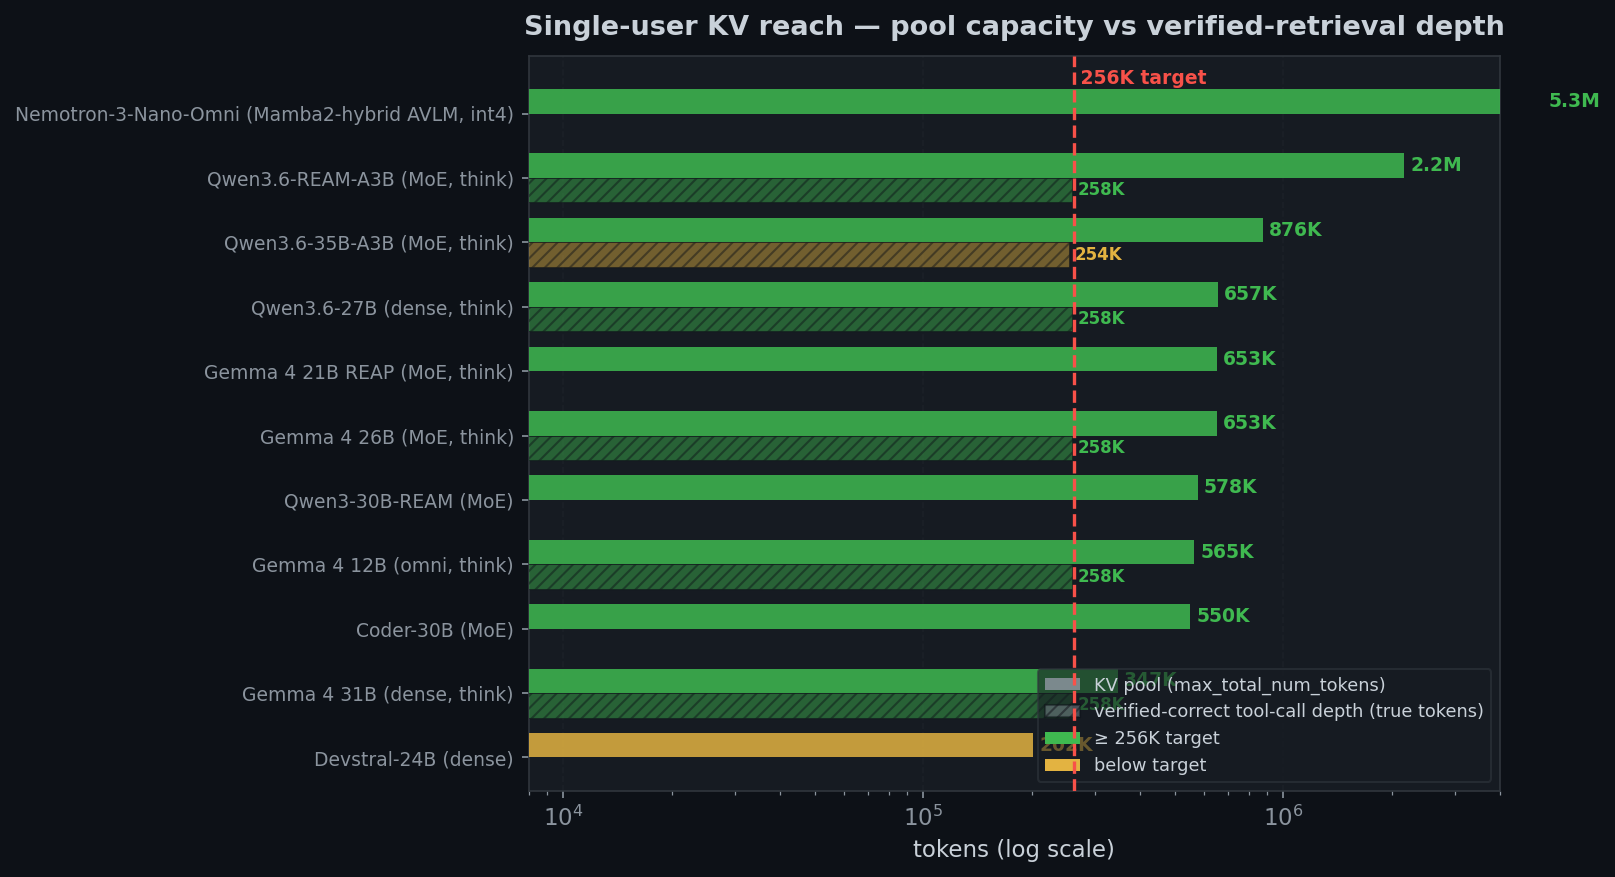
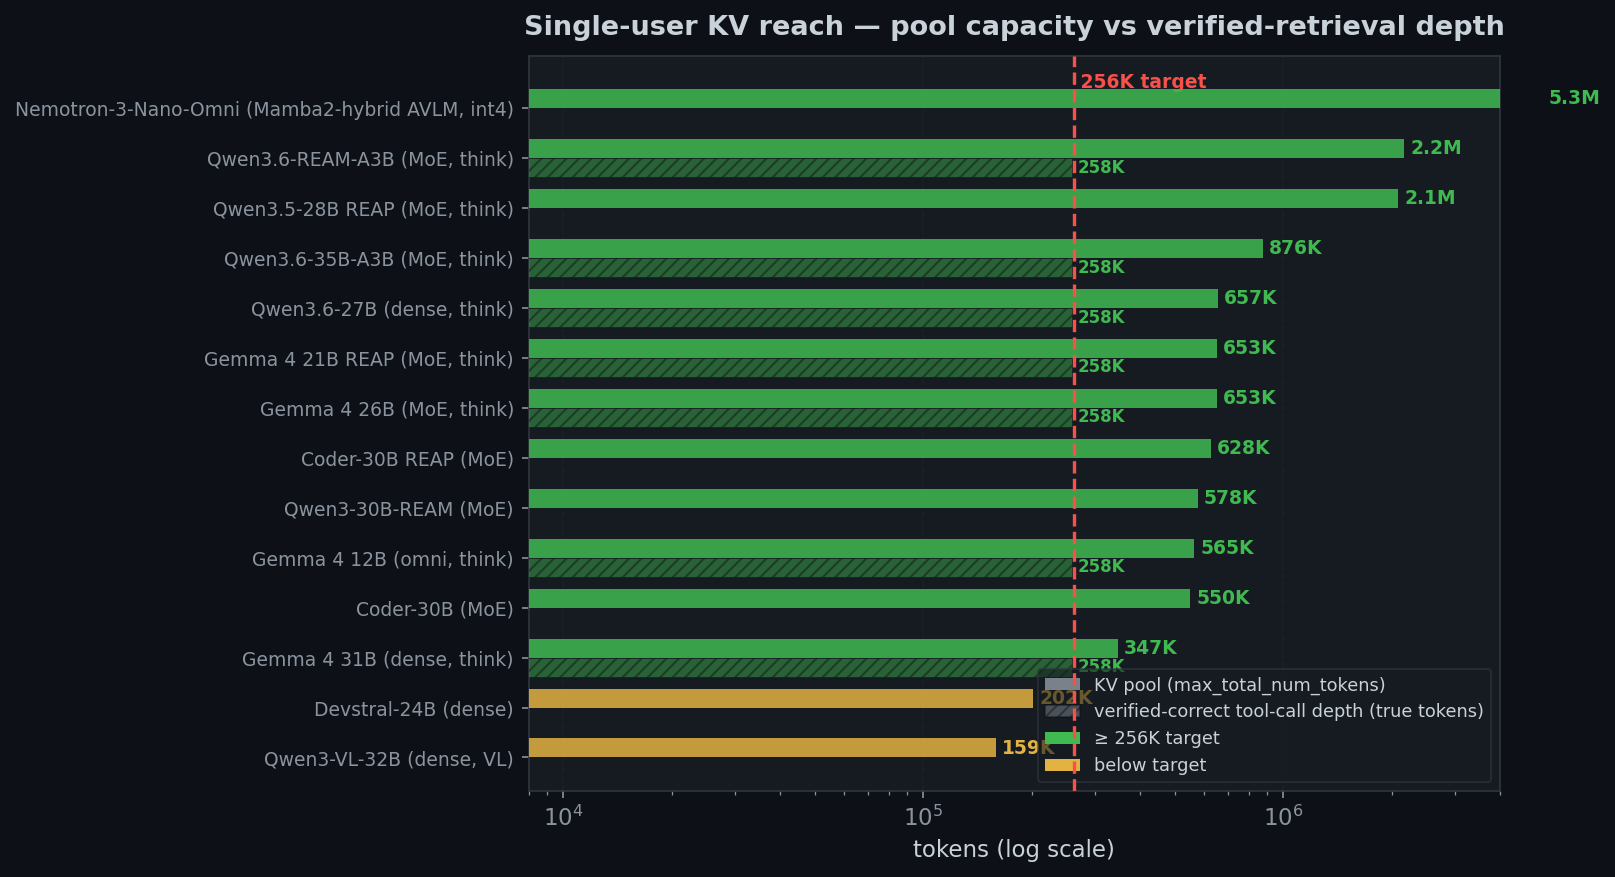
Regenerate README graphs; fix the decode chart's one-model bug and the quality chart's 91-bar sprawl
all_models_decode.png (README "Performance") had silently collapsed to a
single bar: make_decode_bar_chart only accepted May/June-timestamped
results.json files, so the 2026-07-14 fleet re-measure (14 presets,
server-verified depths) was filtered out and Nemotron was the lone
survivor. generate_charts.py now maps every slug to its launch.sh preset,
takes the NEWEST depth-verified sweep per model — results.json or a later
benchmarks/regression/<preset>-*.json tripwire run (same instrument, so the
v0.5.18 campaign's tripwire phase refreshes the chart with no code change)
— admits anything >= 2026-05, and adds the three receipted slugs that had
no entry (coder-reap-25b, qwen3.5-28b-moe, qwen3-vl-32b) plus the
regression-only qwen38. 15 models now; width scales with rows, labels
rotated, data window footnoted. The combined context chart applies the
same >= 2026-05 rule (drops the April 16K-capped Qwen3.5-27B line) and moves
its legend outside the axes.

quality_comparison.png: eval_and_chart.py --chart barred every receipt in
benchmarks/quality (91 across five stacks). Default is now one bar per
preset from its latest COMPLETE versioned receipt (>= v0514; partial re-runs
and in-progress receipts never displace a complete one; --chart-all keeps
the old behaviour), and the dead "<think> tags (%)" panel (0% everywhere —
the reasoning parser strips the tags) is replaced by the receipts' real
thinking metric, clean_answer_rate.
[…]

diff --git a/scripts/bench/generate_charts.py b/scripts/bench/generate_charts.py
@@ -35,20 +35,57 @@ plt.rcParams.update({
 })
 
 MODELS = {
-    # slug = benchmarks/<slug>/results.json. Keep in sync with run_v0512_fleet_eval.sh.
-    "qwen3.6-35b-a3b":     {"label": "Qwen3.6-35B-A3B AWQ (MoE, think)", "color": "#58a6ff"},
-    "qwen3.6-ream":        {"label": "Qwen3.6-REAM-A3B AWQ (MoE, think)", "color": "#79c0ff"},
-    "qwen3.6-27b":         {"label": "Qwen3.6-27B AWQ (dense, think)",    "color": "#1f6feb"},
-    "qwen3-30b-ream":      {"label": "Qwen3-30B-REAM AWQ (MoE)",          "color": "#3fb950"},
-    "nemotron3-omni":      {"label": "Nemotron-3-Nano-Omni AWQ (Mamba2-hybrid AVLM, int4)", "color": "#39c5cf"},
-    "devstral-24b-awq":    {"label": "Devstral-24B AWQ (dense)",          "color": "#56d364"},
-    "gemma4-31b":          {"label": "Gemma 4 31B AWQ (dense, think)",    "color": "#d2a8ff"},
-    "gemma4-26b-awq":      {"label": "Gemma 4 26B AWQ (MoE, think)",      "color": "#bc8cff"},
-    "gemma4-21b-reap":     {"label": "Gemma 4 21B REAP AWQ (MoE, think)", "color": "#a371f7"},
-    "gemma4-12b":          {"label": "Gemma 4 12B AWQ (omni, think)",     "color": "#8957e5"},
-    "coder-30b-awq":       {"label": "Coder-30B AWQ (MoE)",              "color": "#f0883e"},
-    "qwen35-27b-awq":      {"label": "Qwen3.5-27B AWQ",                  "color": "#e3b341"},
+    # slug = benchmarks/<slug>/results.json (context sweep, bench_long_context.py);
+    # preset = the launch.sh name, which is also how the throughput tripwire files
+    # its runs (benchmarks/regression/<preset>-<date>.json) — the decode bar chart
+    # takes whichever of the two is newer. Keep in sync with launch.sh presets.
+    "qwen3.6-35b-a3b":     {"preset": "qwen36",          "label": "Qwen3.6-35B-A3B AWQ (MoE, think)", "color": "#58a6ff"},
+    "qwen3.6-ream":        {"preset": "qwen36-ream",     "label": "Qwen3.6-REAM-A3B AWQ (MoE, think)", "color": "#79c0ff"},
+    "qwen3.6-27b":         {"preset": "qwen36-dense",    "label": "Qwen3.6-27B AWQ (dense, think)",    "color": "#1f6feb"},
+    "qwen38":              {"preset": "qwen38",          "label": "Qwen3.8-27B AWQ (dense, think)",    "color": "#388bfd"},
+    "qwen3.5-28b-moe":     {"preset": "qwen35-moe",      "label": "Qwen3.5-28B REAP AWQ (MoE, think)", "color": "#a5d6ff"},
+    "qwen3-30b-ream":      {"preset": "qwen3-ream",      "label": "Qwen3-30B-REAM AWQ (MoE)",          "color": "#3fb950"},
+    "nemotron3-omni":      {"preset": "nemotron3-omni",  "label": "Nemotron-3-Nano-Omni AWQ (Mamba2-hybrid AVLM, int4)", "color": "#39c5cf"},
+    "devstral-24b-awq":    {"preset": "devstral",        "label": "Devstral-24B AWQ (dense)",          "color": "#56d364"},
+    "gemma4-31b":          {"preset": "gemma4-31b",      "label": "Gemma 4 31B AWQ (dense, think)",    "color": "#d2a8ff"},
+    "gemma4-26b-awq":      {"preset": "gemma4",          "label": "Gemma 4 26B AWQ (MoE, think)",      "color": "#bc8cff"},
+    "gemma4-21b-reap":     {"preset": "gemma4-21b-reap", "label": "Gemma 4 21B REAP AWQ (MoE, think)", "color": "#a371f7"},
+    "gemma4-12b":          {"preset": "gemma4-12b",      "label": "Gemma 4 12B AWQ (omni, think)",     "color": "#8957e5"},
+    "coder-30b-awq":       {"preset": "coder-30b",       "label": "Coder-30B AWQ (MoE)",              "color": "#f0883e"},
+    "coder-reap-25b":      {"preset": "coder-reap-25b",  "label": "Coder-30B REAP AWQ (MoE)",         "color": "#ffa657"},
+    "qwen3-vl-32b":        {"preset": "qwen3-vl-32b",    "label": "Qwen3-VL-32B AWQ (dense, VL)",     "color": "#d29922"},
+    "qwen35-27b-awq":      {"preset": "qwen35-dense",    "label": "Qwen3.5-27B AWQ",                  "color": "#e3b341"},
 }
+
+
+def latest_regression_run(preset):
+    """Newest benchmarks/regression/<preset>-<date>.json (the throughput
+    tripwire's depth-verified 1K / 32K / deep sweep), or None."""
+    runs = glob.glob(os.path.join(BENCH_DIR, "regression", f"{preset}-*.json"))
+    best = None
+    for path in runs:
+        try:
+            d = json.load(open(path))
+        except Exception:
+            continue
+        if d.get("context_sweep") and (best is None or str(d.get("timestamp", "")) > str(best.get("timestamp", ""))):
+            best = d
+    return best
+
+
+def newest_decode_sweep(key, meta):
+    """The most recent depth-verified sweep for a model: its results.json or a
+    later tripwire run. Anything before 2026-05 is the old 16-32K-capped
+    instrument and would read as a fake KV cap — dropped."""
+    cands = []
+    rpath = os.path.join(BENCH_DIR, key, "results.json")
+    if os.path.exists(rpath):
+        cands.append(load_results(key))
+    reg = latest_regression_run(meta["preset"])
+    if reg:
+        cands.append(reg)
+    cands = [c for c in cands if str(c.get("timestamp", "")) >= "2026-05"]
+    return max(cands, key=lambda c: str(c.get("timestamp", ""))) if cands else None
 
 # Unified x-axis: 128 to 256K (matches R9700's chart format for cross-stack comparison).
 # Our presets serve at 256K natively; benchmark data sweeps will be re-run at this range.
@@ -245,10 +282,13 @@ def make_concurrency_chart(model_key, meta, results, out_dir):
 
 
 def make_combined_context_chart(all_data):
-    """All models on one context chart."""
-    fig, ax = plt.subplots(figsize=(8, 4.5))
+    """All models on one context chart (sweeps from the current instrument only —
+    pre-2026-05 results.json files are the old 16-32K-capped runs)."""
+    fig, ax = plt.subplots(figsize=(11, 5.5))
 
     for key, (meta, results) in all_data.items():
+        if str(results.get("timestamp", "")) < "2026-05":
+            continue
         sweep = honest_sweep(key, results)
         if not sweep:
             continue
@@ -267,8 +307,8 @@ def make_combined_context_chart(all_data):
     ax.set_title("All Models — Context Length vs Decode Speed", fontsize=13, fontweight="bold", pad=10)
     ax.grid(True, axis="both", linestyle="--")
     ax.set_ylim(bottom=0)
-    ax.legend(loc="upper right", fontsize=9, framealpha=0.5,
-              edgecolor="#30363d", facecolor="#161b22")
+    ax.legend(loc="upper left", bbox_to_anchor=(1.01, 1.0), fontsize=8.5, framealpha=0.5,
+              edgecolor="#30363d", facecolor="#161b22", borderaxespad=0)
 
     fig.tight_layout()
     path = os.path.join(BENCH_DIR, "all_models_context.png")
@@ -402,10 +442,9 @@ def make_decode_bar_chart(all_data):
     counterpart to R9700's per-model decode bar chart."""
     from matplotlib.patches import Patch
     rows = []
-    for key, (meta, results) in all_data.items():
-        # fresh v0512 fleet only — stale April sweeps stop at 16K (an old short
-        # sweep, not a KV limit), which would read as a fake cap.
-        if not str(results.get("timestamp", "")).startswith(("2026-05", "2026-06")):
+    for key, meta in MODELS.items():
+        results = newest_decode_sweep(key, meta)
+        if not results:
             continue
         sweep = honest_sweep(key, results)
         if len(sweep) < 2:
@@ -413,14 +452,15 @@ def make_decode_bar_chart(all_data):
         peak = max(sweep, key=lambda p: p["tok_per_sec"])
         deep = sweep[-1]
         rows.append({"meta": meta, "peak": peak["tok_per_sec"], "deep": deep["tok_per_sec"],
-                     "deep_ctx": deep["context"], "reaches": reaches_256k(key, results)})
+                     "deep_ctx": deep["context"], "reaches": reaches_256k(key, results),
+                     "date": str(results.get("timestamp", ""))[:10]})
     if not rows:
         print("  SKIP decode bar chart (no fresh fleet data)")
         return
     rows.sort(key=lambda r: r["peak"], reverse=True)
 
     x = np.arange(len(rows)); w = 0.38
-    fig, ax = plt.subplots(figsize=(11, 5.5))
+    fig, ax = plt.subplots(figsize=(max(11, 1.05 * len(rows)), 6))
     for i, r in enumerate(rows):
         c = r["meta"]["color"]
         ax.bar(x[i] - w / 2, r["peak"], w, color=c, alpha=0.42, zorder=5)
@@ -433,7 +473,7 @@ def make_decode_bar_chart(all_data):
         ax.text(x[i] + w / 2, r["deep"] + 1.5, f'{r["deep"]:.0f}\n@{ctx_lbl}',
                 ha="center", fontsize=8, color=c, fontweight="bold")
     labels = [r["meta"]["label"].replace(" AWQ ", "\n").replace(" AWQ", "") for r in rows]
-    ax.set_xticks(x); ax.set_xticklabels(labels, fontsize=8)
+    ax.set_xticks(x); ax.set_xticklabels(labels, fontsize=7.5, rotation=28, ha="right")
     ax.set_ylabel("tok/s (single user, M=1)")
     ax.set_title("Single-user decode — peak vs 256K (or real KV cap)",
                  fontsize=13, fontweight="bold", pad=10)
@@ -445,6 +485,10 @@ def make_decode_bar_chart(all_data):
     ], loc="upper right", framealpha=0.5, edgecolor="#30363d", facecolor="#161b22", fontsize=9)
     ax.grid(True, axis="y", linestyle="--")
     ax.set_ylim(bottom=0, top=max(r["peak"] for r in rows) * 1.18)
+    dates = sorted({r["date"] for r in rows})
+    ax.text(0.0, -0.36, f"newest depth-verified sweep per model (server-verified actual tokens), "
+            f"measured {dates[0]}" + (f" .. {dates[-1]}" if len(dates) > 1 else ""),
+            transform=ax.transAxes, fontsize=7.5, color="#8b949e")
     fig.tight_layout()
     out = os.path.join(BENCH_DIR, "all_models_decode.png")
     fig.savefig(out, dpi=150, bbox_inches="tight")
@@ -538,8 +582,9 @@ if __name__ == "__main__":
         print("Combined:")
         make_combined_context_chart(all_data)
         make_combined_concurrency_chart(all_data)
-        make_decode_bar_chart(all_data)
         make_kv_capacity_chart(all_data)
+    print("Decode bars (results.json vs newer tripwire runs):")
+    make_decode_bar_chart(all_data)
 
     print("Spec-decode:")
     make_specdec_comparison_chart()

diff --git a/scripts/eval/eval_and_chart.py b/scripts/eval/eval_and_chart.py
@@ -383,7 +383,7 @@ def run_eval(port, tag, mmlu_n=200, he_n=30, labbench_n=50, needle_lengths=[1024
     return results
 
 
-def generate_charts():
+def generate_charts(chart_all=False):
     """Generate PNG comparison charts from saved results."""
     try:
         import matplotlib
@@ -410,6 +410,30 @@ def generate_charts():
         print("No quality results found. Run evals first.")
         return
 
+    # README chart = the CURRENT fleet: one bar per preset, its latest COMPLETE
+    # receipt on a versioned stack tag (<preset>-vNNNN, >= v0514 — the current
+    # naming era). Partial re-runs (-needle2 / -mmlu2 / -needle-deep) and
+    # in-progress receipts (a section still missing) never displace a complete
+    # one; legacy unversioned experiment tags are left to --chart-all.
+    if not chart_all:
+        import re
+        latest = {}
+        for r in results:
+            m = re.fullmatch(r"(.+)-v(\d{4})", r["tag"])
+            if not m or int(m.group(2)) < 514:
+                continue
+            if not all(k in r for k in ("mmlu", "humaneval", "labbench", "needle", "thinking")):
+                continue
+            preset, ver = m.group(1), int(m.group(2))
+            if preset not in latest or ver > latest[preset][0]:
+                latest[preset] = (ver, r)
+        results = [v[1] for _, v in sorted(latest.items())]
+        if not results:
+            print("No complete versioned receipts found; use --chart-all.")
+            return
+        print(f"Charting {len(results)} presets (latest complete receipt each): "
+              + ", ".join(r["tag"] for r in results))
+
     tags = [r["tag"] for r in results]
 
     def get_score(r, path, key):
@@ -427,14 +451,16 @@ def generate_charts():
     he = [get_score(r, ["humaneval"], "pass_rate") for r in results]
     labbench = [get_score(r, ["labbench", "_overall"], "accuracy") for r in results]
     needle = [get_score(r, ["needle"], "score") for r in results]
-    think_tags = [get_score(r, ["thinking"], "think_tags_rate") for r in results]
+    # clean_answer_rate is the thinking metric that survives the reasoning
+    # parser (think_tags_rate is 0 whenever the server strips <think> blocks).
+    think_tags = [get_score(r, ["thinking"], "clean_answer_rate") for r in results]
 
     benchmarks = [
         ("MMLU (%)", mmlu),
         ("HumanEval pass@1 (%)", he),
         ("LAB-Bench (%)", labbench),
         ("Needle-in-Haystack (%)", needle),
-        ("<think> tags (%)", think_tags),
+        ("Thinking: clean answer (%)", think_tags),
     ]
     # Only show benchmarks that have at least one result
     benchmarks = [(t, d) for t, d in benchmarks if any(v is not None for v in d)]
@@ -505,6 +531,7 @@ if __name__ == "__main__":
     parser = argparse.ArgumentParser()
     parser.add_argument("--run", action="store_true", help="Run evals")
     parser.add_argument("--chart", action="store_true", help="Generate charts")
+    parser.add_argument("--chart-all", action="store_true", help="Chart every receipt (all stacks/tags), not just the latest per preset")
     parser.add_argument("--port", type=int, default=23334)
     parser.add_argument("--tag", type=str, default="model")
     parser.add_argument("--mmlu-samples", type=int, default=200)
@@ -521,7 +548,7 @@ if __name__ == "__main__":
         run_eval(args.port, args.tag, args.mmlu_samples, args.humaneval_samples, args.labbench_samples, lengths, args.workers, args.mc_budget)
 
     if args.chart:
-        generate_charts()
+        generate_charts(chart_all=args.chart_all)
 
     if not args.run and not args.chart:
         parser.print_help()
